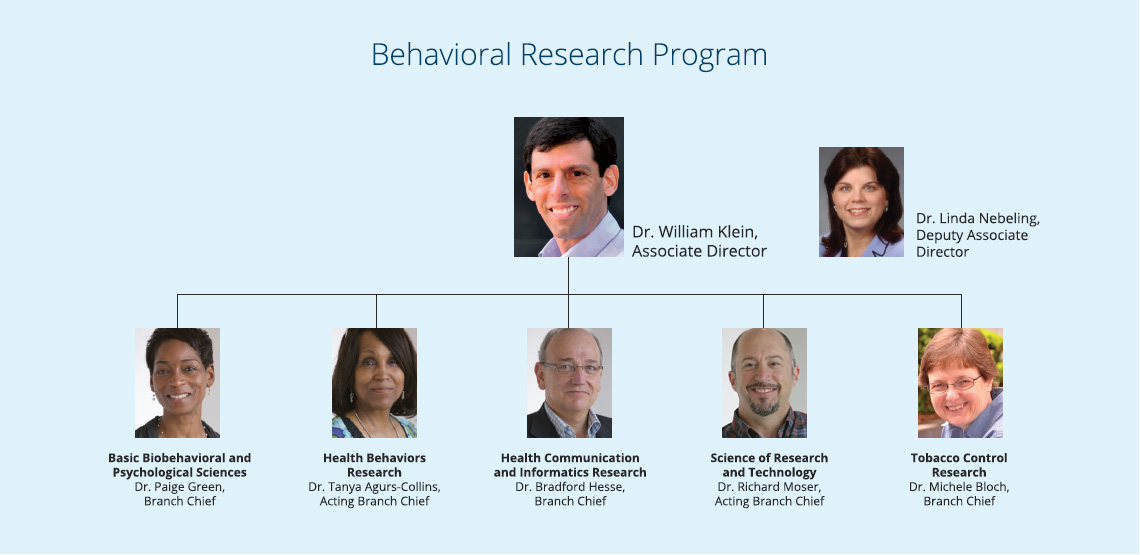
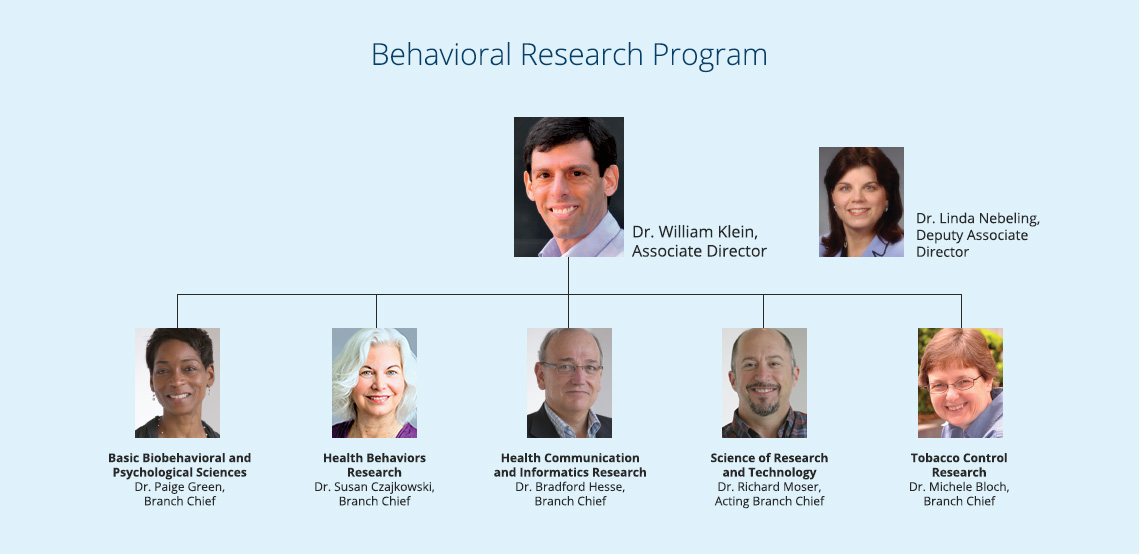
CD: IS jobs tweak, OD org chart updates, link fixes Former-commit-id: 6ff4600f16a2124d6fd581ddc1cab07ffbfbea3c

Changed region(s): [[0.2763, 0.582, 0.3684, 0.7964], [0.2763, 0.8577, 0.3991, 0.9189]]

diff --git a/IS/jobs.html b/IS/jobs.html
@@ -163,17 +163,17 @@
                 <div class="row-fluid">
            		  <!-- InstanceBeginEditable name="Main Content" -->
                 <div class="span12">
-                  <p>For more information about career opportunities at NCI please visit <a href="http://www.cancer.gov/about-nci/careers">NCI Careers</a>.</p>
+                  <p>For more information about career opportunities at NCI please visit <a href="http://www.cancer.gov/about-nci/careers" target="_blank">NCI Careers</a>.</p>
                   <h1>Cancer Research Training Award (CRTA) Fellowship Positions</h1>
                   
                   <p>These  fellowship positions offer a rich learning experience that afford successful  candidates the opportunity to work with teams of scientists and public health  professionals at the NCI, National Institutes of Health (NIH), and institutions  around the country. The IS Team is currently accepting applications for the  following fellowship positions:</p>
                   <h2>Cancer Research Training Award Fellow Sought for Implementation Science Team, Division of Cancer Control and Population Sciences, NCI</h2>
                   <p>The  Implementation Science (IS) team, Office of the Director, Division of Cancer  Control and Population Sciences (DCCPS), National Cancer Institute (NCI), has  an opening for a Cancer Research Training Award (CRTA) Fellow with an interest  in health communication/on-line communities of practice. This fellowship  opportunity supports dissemination and implementation research and the  dissemination and implementation of evidence-based cancer control and  population health programs that includes cancer screening; diet/nutrition, HPV  vaccination uptake; informed decision making; obesity; physical activity;  public health genomics, sun safety; survivorship; and tobacco control. </p>
-                  <p>                    The  Implementation Science Team supports the <a href="https://researchtoreality.cancer.gov/">Research to Reality community of  practice</a> – an online community of 2,300 cancer control researchers and  practitioners. The trainee will be involved with daily operations and project  management of this project. Day-to-day activities might include conducting  literature reviews; creating web-based content, performing data analyses of community  metrics; aiding in the management and administration of monthly webinars or  other initiatives; developing scientific presentations; aiding in development  of program communication and dissemination materials and activities;  participating in IS meetings; and attending lectures or other training  opportunities sponsored by the National Institutes of Health.</p>
+                  <p>                    The  Implementation Science Team supports the <a href="https://researchtoreality.cancer.gov/" target="_blank">Research to Reality community of  practice</a> – an online community of 2,300 cancer control researchers and  practitioners. The trainee will be involved with daily operations and project  management of this project. Day-to-day activities might include conducting  literature reviews; creating web-based content, performing data analyses of community  metrics; aiding in the management and administration of monthly webinars or  other initiatives; developing scientific presentations; aiding in development  of program communication and dissemination materials and activities;  participating in IS meetings; and attending lectures or other training  opportunities sponsored by the National Institutes of Health.</p>
                   <p>                    The fellowship  offers a rich learning experience that will afford the successful candidate the  opportunity to work with teams of scientists and public health professionals at  NCI, the National Institutes of Health (NIH), and institutions around the  country. The successful candidate will interact with scientists from a variety  of research disciplines, including behavioral sciences, clinical sciences, health  services, surveillance, epidemiology, genomics, and public health.  The candidate will interact with  practitioners from national, state and local government agencies as well as  for-profit and non-profit organizations.   An opportunity to collaborate with researchers and practitioners, which  may lead to publications, is also available.<br>
                   NCI is the  primary federal agency responsible for cancer research and is part of NIH and  the U.S. Department of Health and Human Services (HHS). The IS team works to  advance the field of D&amp;I research and support the dissemination of  evidence-based cancer control and population health interventions.  The team is located within the Office of the  Director for the Division to Cancer Control and Population Sciences.  DCCPS is the largest funder of cancer control  and population research grants nationally and worldwide.  Its offices are located in Rockville,  Maryland, a suburb of Washington, DC.</p>
                   <h3>Position  Description</h3>
-                  <p>                    The successful  candidate will help coordinate and manage highly visible projects, including  Program-level activities for existing DCCPS and NCI initiatives; and will have  the opportunity to participate in developing and maintaining dissemination and  implementation projects.  The incumbent  also will assist in the coordination and development of tools that support the  dissemination and implementation of NCI&rsquo;s research. In accomplishing these  activities, the successful candidate will meet frequently and work closely with  IS staff. <u><a href="/is/">Learn more about the IS team</a></u>.</p>
+                  <p>                    The successful  candidate will help coordinate and manage highly visible projects, including  Program-level activities for existing DCCPS and NCI initiatives; and will have  the opportunity to participate in developing and maintaining dissemination and  implementation projects.  The incumbent  also will assist in the coordination and development of tools that support the  dissemination and implementation of NCI&rsquo;s research. In accomplishing these  activities, the successful candidate will meet frequently and work closely with  IS staff. <u><a href="/is/" target="_blank">Learn more about the IS team</a></u>.</p>
                   <h3>Minimum  Qualifications</h3>
                   <div class="listimage">
                   <ul>
@@ -198,8 +198,8 @@
                   </ul>
                   </div>
                   <h3>Stipend and  Benefits</h3>
-                  <p>                    The CRTA  appointment is a 1-year award, with an option to renew for an additional year.  The stipend starts at $34,500 for a trainee with a relevant master's degree and  could vary depending on years of relevant postmaster's degree experience.  Salary is commensurate with experience and education. <br>
-                  The stipends for  CRTA Fellows are adjusted yearly, and are commensurate with academic  achievement and relevant experience. More information is available <a href="/brp/research/stipend.html">online</a>. <a href="/exit_disclaimer.html"><img src="/images/Icon_External_Link.png" width="12" height="12" alt="exit disclaimer" /></a></p>
+                  <p>                    The CRTA  appointment is a 1-year award, with an option to renew for an additional year.  The stipend starts at $34,500 for a trainee with a relevant master's degree and  could vary depending on years of relevant postmaster's degree experience.  Salary is commensurate with experience and education. </p>
+                  <p>The stipends for  CRTA Fellows are adjusted yearly, and are commensurate with academic  achievement and relevant experience. More information is available <a href="/brp/research/stipend.html" target="_blank">online</a>.</p>
                   <p>                  Benefits include  health insurance at no cost and a wide range of career development and social  activities. The office is located in commuter-friendly Rockville, Maryland,  close to the bustling metropolis of Bethesda, and near downtown DC.</p>
                   <h3>Start Date</h3>
                   <p>                    The earliest  possible start date is December 2015, but is negotiable.</p>

diff --git a/brp/archive/funding-conf.html b/brp/archive/funding-conf.html
@@ -174,13 +174,13 @@
     <h1>Conference:  The Science of Research on Discrimination and Health</h1>
     <h4>February 2-4, 2011</h4>
     
-    <p>Racial/ethnic discrimination is often  identified as a contributor to racial/ethnic disparities in health but rarely  examined in this context. The <a href="http://healthcaredelivery.cancer.gov/" target="_blank">Applied Research Program</a> and <a href="../../brp/archive/index.html" target="_blank">Behavioral Research Program</a> of the <a href="../../brp/index.html" target="_blank">Division of Cancer Control and Population Sciences (DCCPS)</a> of  the <a href="http://www.cancer.gov/" target="_blank">National Cancer Institute (NCI)</a>, <a href="http://www.nih.gov/" target="_blank">National Institutes of Health (NIH)</a>  sponsored a three-day conference to examine the research and research methods  for investigating the role of racial/ethnic discrimination in health. Collaborators in sponsoring the conference were the <a href="http://www.ahrq.gov/" target="_blank">Agency for Healthcare Research and Quality (AHRQ)</a>, the <a href="http://www.drugabuse.gov/" target="_blank">National Institute on Drug Abuse (NIDA)</a>, the <a href="http://www.nhlbi.nih.gov/" target="_blank">National Heart, Lung, and Blood Institute (NHLBI)</a>, and the <a href="https://obssr.od.nih.gov/" target="_blank">NIH Office of Behavioral and Social Sciences Research (OBSSR)</a>.</p>
+    <p>Racial/ethnic discrimination is often  identified as a contributor to racial/ethnic disparities in health but rarely  examined in this context. The <a href="http://healthcaredelivery.cancer.gov/" target="_blank">Applied Research Program</a> and <a href="/brp/">Behavioral Research Program</a> of the <a href="/index.html">Division of Cancer Control and Population Sciences (DCCPS)</a> of  the <a href="http://www.cancer.gov/">National Cancer Institute (NCI)</a>, <a href="http://www.nih.gov/">National Institutes of Health (NIH)</a>  sponsored a three-day conference to examine the research and research methods  for investigating the role of racial/ethnic discrimination in health. Collaborators in sponsoring the conference were the <a href="http://www.ahrq.gov/">Agency for Healthcare Research and Quality (AHRQ)</a>, the <a href="http://www.drugabuse.gov/">National Institute on Drug Abuse (NIDA)</a>, the <a href="http://www.nhlbi.nih.gov/">National Heart, Lung, and Blood Institute (NHLBI)</a>, and the <a href="https://obssr.od.nih.gov/">NIH Office of Behavioral and Social Sciences Research (OBSSR)</a>.</p>
     
     <p>The  specific purposes of the meeting were to (1) promote the science/research on  racial/ethnic discrimination and its contribution to racial/ethnic disparities  in health; (2) identify gaps in the research literature and areas for future  research and/or NCI/NIH funding initiatives; and (3) increase awareness of the  NCI&rsquo;s interest in funding research in this topic area through the Program  Announcement, The Effect of Racial and Ethnic Discrimination/Bias on Health Care Delivery (<a href="http://grants.nih.gov/grants/guide/pa-files/PA-11-162.html" target="_blank">PA-11-162</a>, <a href="http://grants.nih.gov/grants/guide/pa-files/PA-11-163.html" target="_blank">PA-11-163</a>, <a href="http://grants.nih.gov/grants/guide/pa-files/PA-11-164.html" target="_blank">PA-11-164</a>). Meeting presenters discussed the research literature and presented  research on numerous pertinent topics.</p>
     
     <h3><strong>Agenda</strong></h3>
     
-    <h4>Day One: February 2, 2011 <a href="http://videocast.nih.gov/summary.asp?Live=9871" target="_blank">(View archived videocast)</a></h4>
+    <h4>Day One: February 2, 2011 <a href="http://videocast.nih.gov/summary.asp?Live=9871">(View archived videocast)</a></h4>
     
     <table class="table table-striped table-bordered table-condensed" title="Day One: February 2, 2011 Agenda">
       <tr>
@@ -210,7 +210,7 @@
       </tr>
     </table>
     
-    <h4>Day Two:  February 3, 2011  <a href="http://videocast.nih.gov/summary.asp?Live=9872" target="_blank">(View archived videocast)</a></h4>
+    <h4>Day Two:  February 3, 2011  <a href="http://videocast.nih.gov/summary.asp?Live=9872">(View archived videocast)</a></h4>
     
     <table class="table table-striped table-bordered table-condensed" title="Day Two: February 3, 2011 Agenda">
       <tr>
@@ -253,7 +253,7 @@
       </tr>
     </table>
     
-    <h4>Day Three:  February 4, 2011 <a href="http://videocast.nih.gov/summary.asp?Live=9873" target="_blank">(View archived videocast)</a></h4>
+    <h4>Day Three:  February 4, 2011 <a href="http://videocast.nih.gov/summary.asp?Live=9873">(View archived videocast)</a></h4>
     
     <table class="table table-striped table-bordered table-condensed" title="Day Three:  February 4, 2011 Agenda">
       <tr>

diff --git a/index.html b/index.html
@@ -296,19 +296,19 @@
                   <div class="area-header bottom-border">Featured Infographic</div>
                   <div class="row-fluid">
                   <div class="span7">
-                  <div id="demoLightbox18" class="lightbox hide fade" tabindex="-1" role="dialog" aria-hidden="true">
+                  <div id="demoLightbox19" class="lightbox hide fade" tabindex="-1" role="dialog" aria-hidden="true">
      <div class='lightbox-header'><button type="button" class="close" data-dismiss="lightbox" aria-hidden="true">&times;</button>
 </div>
     <div class='lightbox-content'>
-    <img src="images/Final-Challenge-Infographic.jpg" alt="This illustration is included in the National Cancer Institute's Annual Plan & Budget Proposal for Fiscal Year 2017. ">
-    <div class="lightbox-caption"><p>Up for a Challenge? Stimulating Innovation in Breast Cancer Genetic Epidemiology</p></div>
+    <img src="http://hints.cancer.gov/_images/infographics/HINTS4-Cycle4-Infographic-v3.png" alt="This illustration is included in the National Cancer Institute's Annual Plan & Budget Proposal for Fiscal Year 2017. ">
+    <div class="lightbox-caption"><p>Monitoring a Changing Health Information  Environment: American told <a href="http://www.hints.cancer.gov/">HINTS</a> how they&rsquo;re getting and using health information right now</p></div>
     </div>
     </div>
-                      <a data-toggle="lightbox" href="#demoLightbox18"><img src="images/Final-Challenge-Infographic-thumb.jpg" alt="This illustration is included in the National Cancer Institute's Annual Plan & Budget Proposal for Fiscal Year 2017. " width="155" height="200"></a>
+                      <a data-toggle="lightbox" href="#demoLightbox19"><img src="images/HINTS4-Cycle4-Infographic-thumb.jpg" alt="This illustration is included in the National Cancer Institute's Annual Plan & Budget Proposal for Fiscal Year 2017. " width="193" height="250"></a>
                     <p><a href="infographics.html" class="document">View all Previous Infographics</a></p>
                   </div>
             <div class="span5">
-            <p><a data-toggle="lightbox" href="https://www.synapse.org/#!Synapse:syn3157598/wiki/232604">Up for a Challenge? Stimulating Innovation in Breast Cancer Genetic Epidemiology</a> <a href="/exit_disclaimer.html"><img src="/images/Icon_External_Link.png" width="12" height="12" alt="exit disclaimer" /></a></p>
+            <p>Monitoring a Changing Health Information  Environment: American told <a href="http://hints.cancer.gov/">HINTS</a> how they&rsquo;re getting and using health information right now</p>
 </div>
             </div>
             
@@ -450,7 +450,7 @@
           </div>
            </div>
        <div class="last-updated">
-       <p class="center"><strong>Last Updated: October 16, 2015</strong></p>
+       <p class="center"><strong>Last Updated: November 3, 2015</strong></p>
        <a href="http://www.cancer.gov/global/contact" class="help-image"><img class="footer-help" src="/images/footer-help-logo.png" alt="help-logo" /></a><p class="can-numb"><strong>1-800-4-CANCER <br /> (1-800-422-6237)</strong></p>
                   </div>
        </div><!--/row-->

diff --git a/brp/priority-areas/index.html b/brp/priority-areas/index.html
@@ -234,12 +234,12 @@ var s = document.getElementsByTagName('script')[0]; s.parentNode.insertBefore(hm
                             	<div class="span6">
                         	<ul>
                             	    <li><a href="../../brp/hcirb/social-media.html">Social Media</a></li>
-                            	    <li><span lang="en-US"><a href="/funding-foa-applicants.html" target="_blank">Smoking  Cessation within the Context of Lung Cancer Screening</a></span></li>
+                            	    <li><span lang="en-US"><a href="/funding-foa-applicants.html">Smoking  Cessation within the Context of Lung Cancer Screening</a></span></li>
                             </ul>
                                 </div>
                                 <div class="span6">
                         	<ul>
-                                  <li><span lang="en-US"><a href="/brp/decision-making.html" target="_blank">Decision-Making  Steering Committee (DMSC)</a></span></li>
+                                  <li><span lang="en-US"><a href="/brp/decision-making.html">Decision-Making  Steering Committee (DMSC)</a></span></li>
                                   <li><span lang="en-US"> <a href="/brp/casphr/" target="_blank">The  Cognitive, Affective, and Social Processes in Health Research (CASPHR) Workgroup</a></span></li>
                   			</ul>
                                 </div>
@@ -254,14 +254,14 @@ var s = document.getElementsByTagName('script')[0]; s.parentNode.insertBefore(hm
 
                             	<div class="span6">
                         	<ul>
-                            	    <li><span lang="en-US"><a href="/brp/srtb/big-data.html" target="_blank">Integrative  Data Analysis</a></span></li>
-                            	    <li><span lang="en-US"><a href="/brp/research/gem.html" target="_blank">Grid-Enabled  Measures (GEM)</a></span></li>
+                            	    <li><span lang="en-US"><a href="/brp/srtb/big-data.html">Integrative  Data Analysis</a></span></li>
+                            	    <li><span lang="en-US"><a href="/brp/research/gem.html">Grid-Enabled  Measures (GEM)</a></span></li>
                             </ul>
                                 </div>
                                 <div class="span6">
                         	<ul>
-                                  <li><span lang="en-US"><a href="http://hints.cancer.gov/" target="_blank">Health  Information National Trends Survey (HINTS)</a></span></li>
-                                  <li><span lang="en-US"> <a href="/brp/hbrb/flashe.html" target="_blank">Family  Life, Activity, Sun, Health, and Eating (FLASHE) Study</a></span></li>
+                                  <li><span lang="en-US"><a href="http://hints.cancer.gov/">Health  Information National Trends Survey (HINTS)</a></span></li>
+                                  <li><span lang="en-US"> <a href="/brp/hbrb/flashe.html">Family  Life, Activity, Sun, Health, and Eating (FLASHE) Study</a></span></li>
                   			</ul>
                                 </div>
                       </div>

diff --git a/od/orgchart.html b/od/orgchart.html
@@ -179,7 +179,7 @@
         <area shape="rect" coords="47,991,409,1053" href="http://surveillance.cancer.gov/branches/sib/" alt="Surveillance Informatics - Dr. Angela Mariotto">
         <area shape="rect" coords="41,681,403,744" href="http://epi.grants.cancer.gov/staff/krebs-smith.html" alt="Risk Factor Assessment - Dr. Susan Krebs-Smith">
         <area shape="rect" coords="494,682,851,742" href="/brp/tcrb/"  alt="Tobacco Control Research Branch - Dr. Michele Bloch (Acting)" >
-        <area shape="rect" coords="494,485,851,550" href="/brp/hbrb/index.html" alt="Health Behaviors Research Branch - Dr. Tanya Agurs-Collins">
+        <area shape="rect" coords="494,485,851,550" href="/brp/hbrb/index.html" alt="Health Behaviors Research Branch - Dr. Susan Czajkowski">
         <area shape="rect" coords="494,550,850,611" href="/brp/hcirb/" alt="Health Communication &amp; Informatics Research Branch - Dr. Bradford Hesse">
         <area shape="rect" coords="41,551,403,612" href="http://epi.grants.cancer.gov/hsfb/" alt="Genomic Epidemiology - Dr. Elizabeth Gillanders">
         <area shape="rect" coords="46,927,409,989" href="http://surveillance.cancer.gov/branches/dqaib/" alt="Data Analysis &amp; Interpretation - Dr. Zaria Tatalovich">
@@ -195,7 +195,7 @@
       <area shape="rect" coords="586,82,871,142" href="bke.html" alt="Senior Advisor for Cancer Surveillance - Dr. Brenda Edwards">
       <area shape="rect" coords="7,24,298,87" href="dep_director_dw.html" alt="Deputy Director Dr. Deborah M. Winn">
       <area shape="rect" coords="373,10,505,217" href="view_rtc.html" alt="Officer of the Director Dr. Robert T Croyle, Director">
-      <area shape="rect" coords="8,137,294,198" href="../IS/chambers.html" alt="Office of Cancer Survivorship - Dr. Julia H. Rowland, Director"></map>
+      <area shape="rect" coords="9,137,295,198" href="../IS/chambers.html" alt="Office of Cancer Survivorship - Dr. Julia H. Rowland, Director"></map>
                 </div>
                 <!--/span-->
               
@@ -270,7 +270,7 @@
           </div>
            </div>
        <div class="last-updated">
-       <p class="center"><strong>Last Updated: <!-- InstanceBeginEditable name="Last Updated" -->March 12, 2015<!-- InstanceEndEditable --></strong></p>
+       <p class="center"><strong>Last Updated: <!-- InstanceBeginEditable name="Last Updated" -->November 4, 2015<!-- InstanceEndEditable --></strong></p>
        <a href="http://www.cancer.gov/contact" class="help-image"><img class="footer-help" src="/images/footer-help-logo.png" alt="help-logo" /></a><p class="can-numb"><strong>1-800-4-CANCER <br /> (1-800-422-6237)</strong></p>
        </div>
        </div><!--/row-->

diff --git a/funding_apply.html b/funding_apply.html
@@ -797,8 +797,8 @@
     <td>Tobacco Regulatory Science    Small Grant Program for New Investigators </td>
     <td><a href="http://grants.nih.gov/grants/guide/rfa-files/RFA-OD-15-004.html">RFA-OD-15-004</a> &nbsp;(R03) </td>
     <td>February 24, 2017 </td>
-    <td><a href="http://staffprofiles.cancer.gov/brp/prgmStaffProfile.do?contactId=22444270&amp;bioType=stf" target="_blank">Rachel Grana</a><br />
-      240-276-5899&nbsp; <br />      <a href="mailto:granar@mail.nih.gov" target="_blank">granar@mail.nih.gov&nbsp;</a></td>
+    <td><a href="http://staffprofiles.cancer.gov/brp/prgmStaffProfile.do?contactId=22444270&amp;bioType=stf">Rachel Grana</a><br />
+      240-276-5899&nbsp; <br />      <a href="mailto:granar@mail.nih.gov">granar@mail.nih.gov&nbsp;</a></td>
   </tr>
           <tr>
             <td>Accelerating the Pace of Drug Abuse    Research Using Existing Data </td>
@@ -813,15 +813,15 @@
     <td>Abuse Liability Associated    with Reduced Nicotine Content Tobacco Products&nbsp; </td>
     <td><a href="http://grants.nih.gov/grants/guide/rfa-files/RFA-OD-15-006.html">RFA-OD-15-006 </a>&nbsp;(R01) </td>
     <td>December 12, 2015 </td>
-    <td><a href="http://staffprofiles.cancer.gov/brp/prgmStaffProfile.do?contactId=22444270&amp;bioType=stf" target="_blank">Rachel Grana</a><br />
-      240-276-5899&nbsp; <br />      <a href="mailto:granar@mail.nih.gov" target="_blank">granar@mail.nih.gov&nbsp;</a></td>
+    <td><a href="http://staffprofiles.cancer.gov/brp/prgmStaffProfile.do?contactId=22444270&amp;bioType=stf">Rachel Grana</a><br />
+      240-276-5899&nbsp; <br />      <a href="mailto:granar@mail.nih.gov">granar@mail.nih.gov&nbsp;</a></td>
   </tr>
   <tr>
     <td>Chemistry,    Toxicology, and Addiction Research on Waterpipe Tobacco (R01) </td>
-    <td><a href="http://grants.nih.gov/grants/guide/rfa-files/RFA-OD-15-005.html" target="_blank">RFA-OD-15-005</a> (R01) </td>
+    <td><a href="http://grants.nih.gov/grants/guide/rfa-files/RFA-OD-15-005.html">RFA-OD-15-005</a> (R01) </td>
     <td>November    21, 2015 </td>
-    <td><a href="http://staffprofiles.cancer.gov/brp/prgmStaffProfile.do?contactId=22444270&amp;bioType=stf" target="_blank">Rachel Grana</a><br />
-      240-276-5899&nbsp; <br />      <a href="mailto:granar@mail.nih.gov" target="_blank">granar@mail.nih.gov&nbsp;</a></td>
+    <td><a href="http://staffprofiles.cancer.gov/brp/prgmStaffProfile.do?contactId=22444270&amp;bioType=stf">Rachel Grana</a><br />
+      240-276-5899&nbsp; <br />      <a href="mailto:granar@mail.nih.gov">granar@mail.nih.gov&nbsp;</a></td>
   </tr>
           
         </table>

diff --git a/infographics.html b/infographics.html
@@ -178,6 +178,23 @@
                   <div class="row-fluid">
                   <div class="row-fluid">
                   <div class="span12">
+                  <div id="demoLightbox19" class="lightbox hide fade" tabindex="-1" role="dialog" aria-hidden="true">
+     <div class='lightbox-header'><button type="button" class="close" data-dismiss="lightbox" aria-hidden="true">&times;</button>
+</div>
+    <div class='lightbox-content'>
+    <img src="http://hints.cancer.gov/_images/infographics/HINTS4-Cycle4-Infographic-v3.png" alt="This illustration is included in the National Cancer Institute's Annual Plan & Budget Proposal for Fiscal Year 2017. ">
+    <div class="lightbox-caption"><p>Monitoring a Changing Health Information  Environment: American told <a href="http://hints.cancer.gov/">HINTS</a> how they&rsquo;re getting and using health information right now</p></div>
+    </div>
+    </div>
+                      <ul>
+                        <li><a data-toggle="lightbox" href="http://hints.cancer.gov/">Monitoring a Changing Health Information Environment</a><br>
+                          <a data-toggle="lightbox" href="#demoLightbox19"><img src="images/HINTS4-Cycle4-Infographic-thumb.jpg" alt="This illustration is included in the National Cancer Institute's Annual Plan & Budget Proposal for Fiscal Year 2017. " width="193" height="250"></a></li>
+                      </ul>
+                  </div>
+                  
+                  </div>
+                  <div class="row-fluid">
+                  <div class="span12">
                   <div id="demoLightbox18" class="lightbox hide fade" tabindex="-1" role="dialog" aria-hidden="true">
      <div class='lightbox-header'><button type="button" class="close" data-dismiss="lightbox" aria-hidden="true">&times;</button>
 </div>
@@ -532,7 +549,7 @@
           </div>
            </div>
        <div class="last-updated">
-       <p class="center"><strong>Last Updated: <!-- InstanceBeginEditable name="Last Updated" -->October 16, 2015<!-- InstanceEndEditable --></strong></p>
+       <p class="center"><strong>Last Updated: <!-- InstanceBeginEditable name="Last Updated" -->November 3, 2015<!-- InstanceEndEditable --></strong></p>
        <a href="http://www.cancer.gov/contact" class="help-image"><img class="footer-help" src="/images/footer-help-logo.png" alt="help-logo" /></a><p class="can-numb"><strong>1-800-4-CANCER <br /> (1-800-422-6237)</strong></p>
        </div>
        </div><!--/row-->

diff --git a/bb/leadership.html b/bb/leadership.html
@@ -114,7 +114,7 @@
         </div>
         <div class="tab-pane" id="tab_c">
             <img src="images/OrgChart-BRP.jpg" width="1140" height="555" usemap="#imagemap-brp" class="org-chart" alt="Behavioral Research Program">
-            <map name="imagemap-brp"><area shape="rect" coords="103,327,257,509" href="/brp/bbpsb/" alt="Basic Biobehavioral and Psychological Sciences: Dr. Paige Green, Branch Chief"><area shape="rect" coords="308,327,443,508" href="/brp/hbrb/" alt="Health Behaviors Research: Dr. Tanya Agurs-Collins, Acting Branch Chief"><area shape="rect" coords="492,328,649,509" href="/brp/hcirb/" alt="Health Communication and Informatics Research: Dr. Bradford Hesse, Branch Chief"><area shape="rect" coords="709,328,830,509" href="/brp/srtb/" alt="Science of Research and Technology: Dr. Richard Moser, Branch Chief"><area shape="rect" coords="908,328,1012,509" href="/brp/tcrb/" alt="Tobacco Control Research: Dr. Michele Bloch, Branch Chief"><area shape="rect" coords="819,147,1041,258" href="/brp/" alt="Dr. Linda Nebeling, Deputy Associate Director">
+            <map name="imagemap-brp"><area shape="rect" coords="103,327,257,509" href="/brp/bbpsb/" alt="Basic Biobehavioral and Psychological Sciences: Dr. Paige Green, Branch Chief"><area shape="rect" coords="308,327,443,508" href="/brp/hbrb/" alt="Health Behaviors Research: Dr. Susan Czajkowski, Branch Chief"><area shape="rect" coords="492,328,649,509" href="/brp/hcirb/" alt="Health Communication and Informatics Research: Dr. Bradford Hesse, Branch Chief"><area shape="rect" coords="709,328,830,509" href="/brp/srtb/" alt="Science of Research and Technology: Dr. Richard Moser, Branch Chief"><area shape="rect" coords="908,328,1012,509" href="/brp/tcrb/" alt="Tobacco Control Research: Dr. Michele Bloch, Branch Chief"><area shape="rect" coords="819,147,1041,258" href="/brp/" alt="Dr. Linda Nebeling, Deputy Associate Director">
               <area shape="rect" coords="514,117,769,258" href="/brp/" alt="Dr. William Klein, Associate Director">
             </map>
         </div>

diff --git a/funding_archive_print.html b/funding_archive_print.html
@@ -1079,14 +1079,14 @@ OD-03-008</a></td>
           </tr> 
           <tr>
             <td>Epigenetic Approaches in Cancer Epidemiology</td>
-            <td><a href="http://grants.nih.gov/grants/guide/pa-files/PA-10-031.html" target="_blank">PA-10-031 </a> (R01)<br />
-            <a href="http://grants.nih.gov/grants/guide/pa-files/PA-10-032.html" target="_blank">PA-10-032</a> (R21)</td>
+            <td><a href="http://grants.nih.gov/grants/guide/pa-files/PA-10-031.html">PA-10-031 </a> (R01)<br />
+            <a href="http://grants.nih.gov/grants/guide/pa-files/PA-10-032.html">PA-10-032</a> (R21)</td>
             <td>January 8, 2013</td>
           </tr>
           <tr>
             <td>Development, Application, and Evaluation of Prediction Models for Cancer Risk and Prognosis</td>
-            <td><a href="http://grants.nih.gov/grants/guide/pa-files/PA-10-026.html" target="_blank">PA-10-026</a> (R21)<br />
-            <a href="http://grants.nih.gov/grants/guide/pa-files/PA-10-025.html" target="_blank">PA-10-025</a> (R01)</td>
+            <td><a href="http://grants.nih.gov/grants/guide/pa-files/PA-10-026.html">PA-10-026</a> (R21)<br />
+            <a href="http://grants.nih.gov/grants/guide/pa-files/PA-10-025.html">PA-10-025</a> (R01)</td>
             <td>January 8, 2013</td>
           </tr>
           <tr>

diff --git a/brp/casphr/w_klein.html b/brp/casphr/w_klein.html
@@ -212,7 +212,7 @@
         <p>Dr. Klein was recently associate editor of Psychology and Health and has served on the editorial boards of journals including Psychological Science and Personality and Social Psychology Bulletin.</p>
         
         <p><strong>Link to Home Organization</strong><br />
-        <a href="../../od/w_klein.html" target="_blank">http://cancercontrol.cancer.gov/od/w_klein.html</a><br />
+        <a href="../../od/w_klein.html">http://cancercontrol.cancer.gov/od/w_klein.html</a><br />
         <a href="http://www.psychology.pitt.edu/people/faculty/faculty.php?fc_id=30" target="_blank">http://www.psychology.pitt.edu/people/faculty/faculty.php?fc_id=30</a> <a href="../../exit_disclaimer.html"><img src="../../images/Icon_External_Link.png" alt="Exit Disclaimer" width="12" height="12" border="0"></a></p>
         
         <p><a href="../../brp/casphr/members.html">Return</a> to Members page</p>

diff --git a/brp/tcrb/research_topic-tobacco-use.html b/brp/tcrb/research_topic-tobacco-use.html
@@ -191,11 +191,11 @@
   <tbody>
     <tr>
       <td>Smoking Cessation within the Context of Lung Cancer Screening         </td>
-      <td><a href="http://grants.nih.gov/grants/guide/rfa-files/RFA-CA-15-011.html" target="_blank">RFA-CA-15-011</a> (R01)</td>
+      <td><a href="http://grants.nih.gov/grants/guide/rfa-files/RFA-CA-15-011.html">RFA-CA-15-011</a> (R01)</td>
       <td>Expired<br />
         October 9, 2015</td>
       <td>Stephanie Land<br />
-        240-276-6946<br />        <a href="mailto:landsr@mail.nih.gov" target="_blank">landsr@mail.nih.gov</a></td>
+        240-276-6946<br />        <a href="mailto:landsr@mail.nih.gov">landsr@mail.nih.gov</a></td>
     </tr>
   </tbody>
 </table>

diff --git a/funding_apply_print.html b/funding_apply_print.html
@@ -339,7 +339,7 @@
             <td>November 19, 2014</td>
             <td>Gary Ellison, Ph.D., M.P.H.<br>
 240-276-6783 <br>
-<a href="mailto:ellisong@mail.nih.gov" target="_blank">ellisong@mail.nih.gov</a></td>
+<a href="mailto:ellisong@mail.nih.gov">ellisong@mail.nih.gov</a></td>
           </tr>
           <tr style="vertical-align:top;">
             <td>Core Infrastructure and Methodological Research for Cancer </td>
